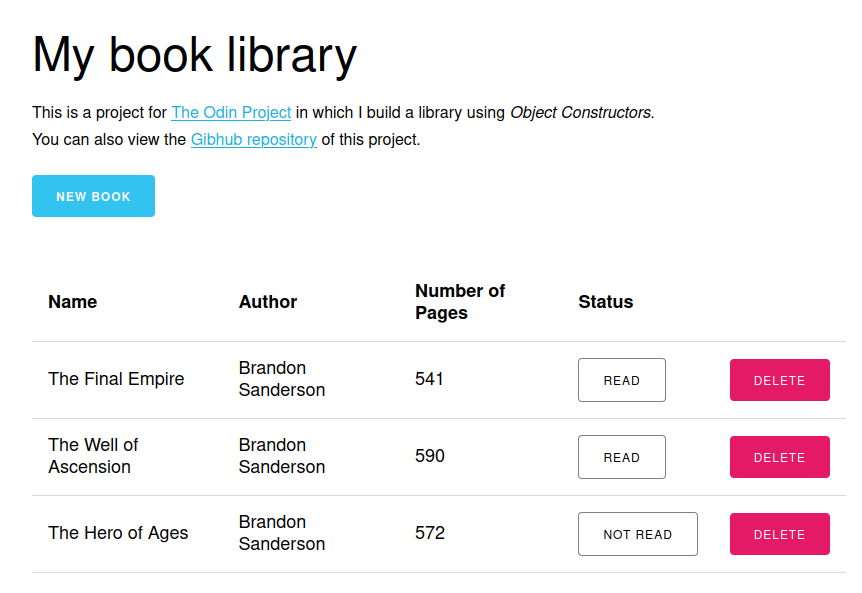
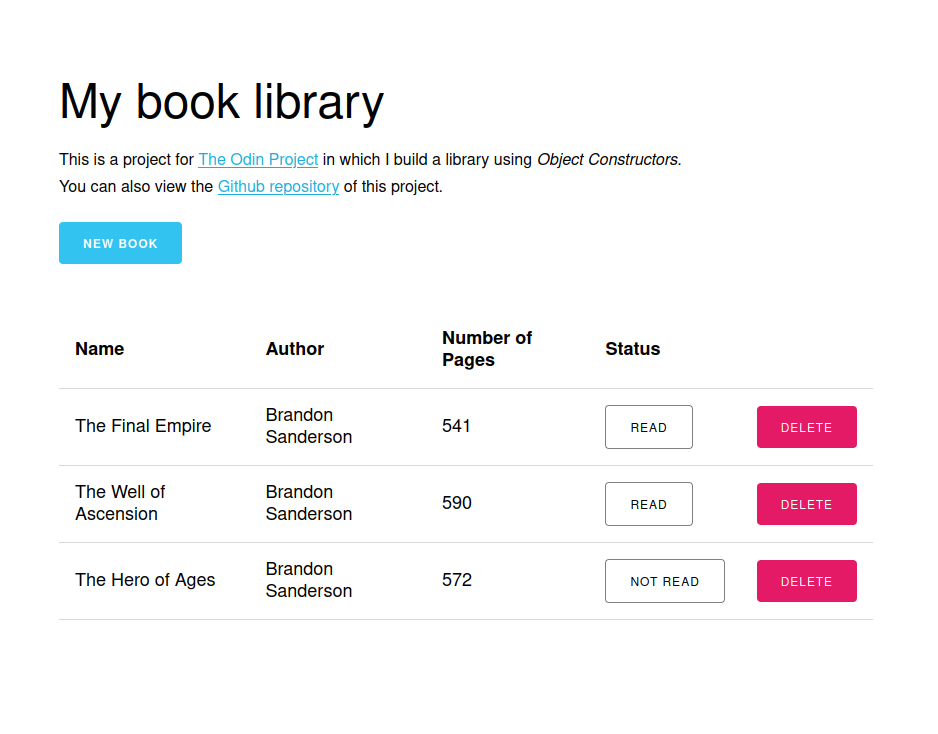
Add picture to ReadMe

diff --git a/README.md b/README.md
@@ -1,1 +1,3 @@
 # odin-library
+
+![Library Image](library.png)
